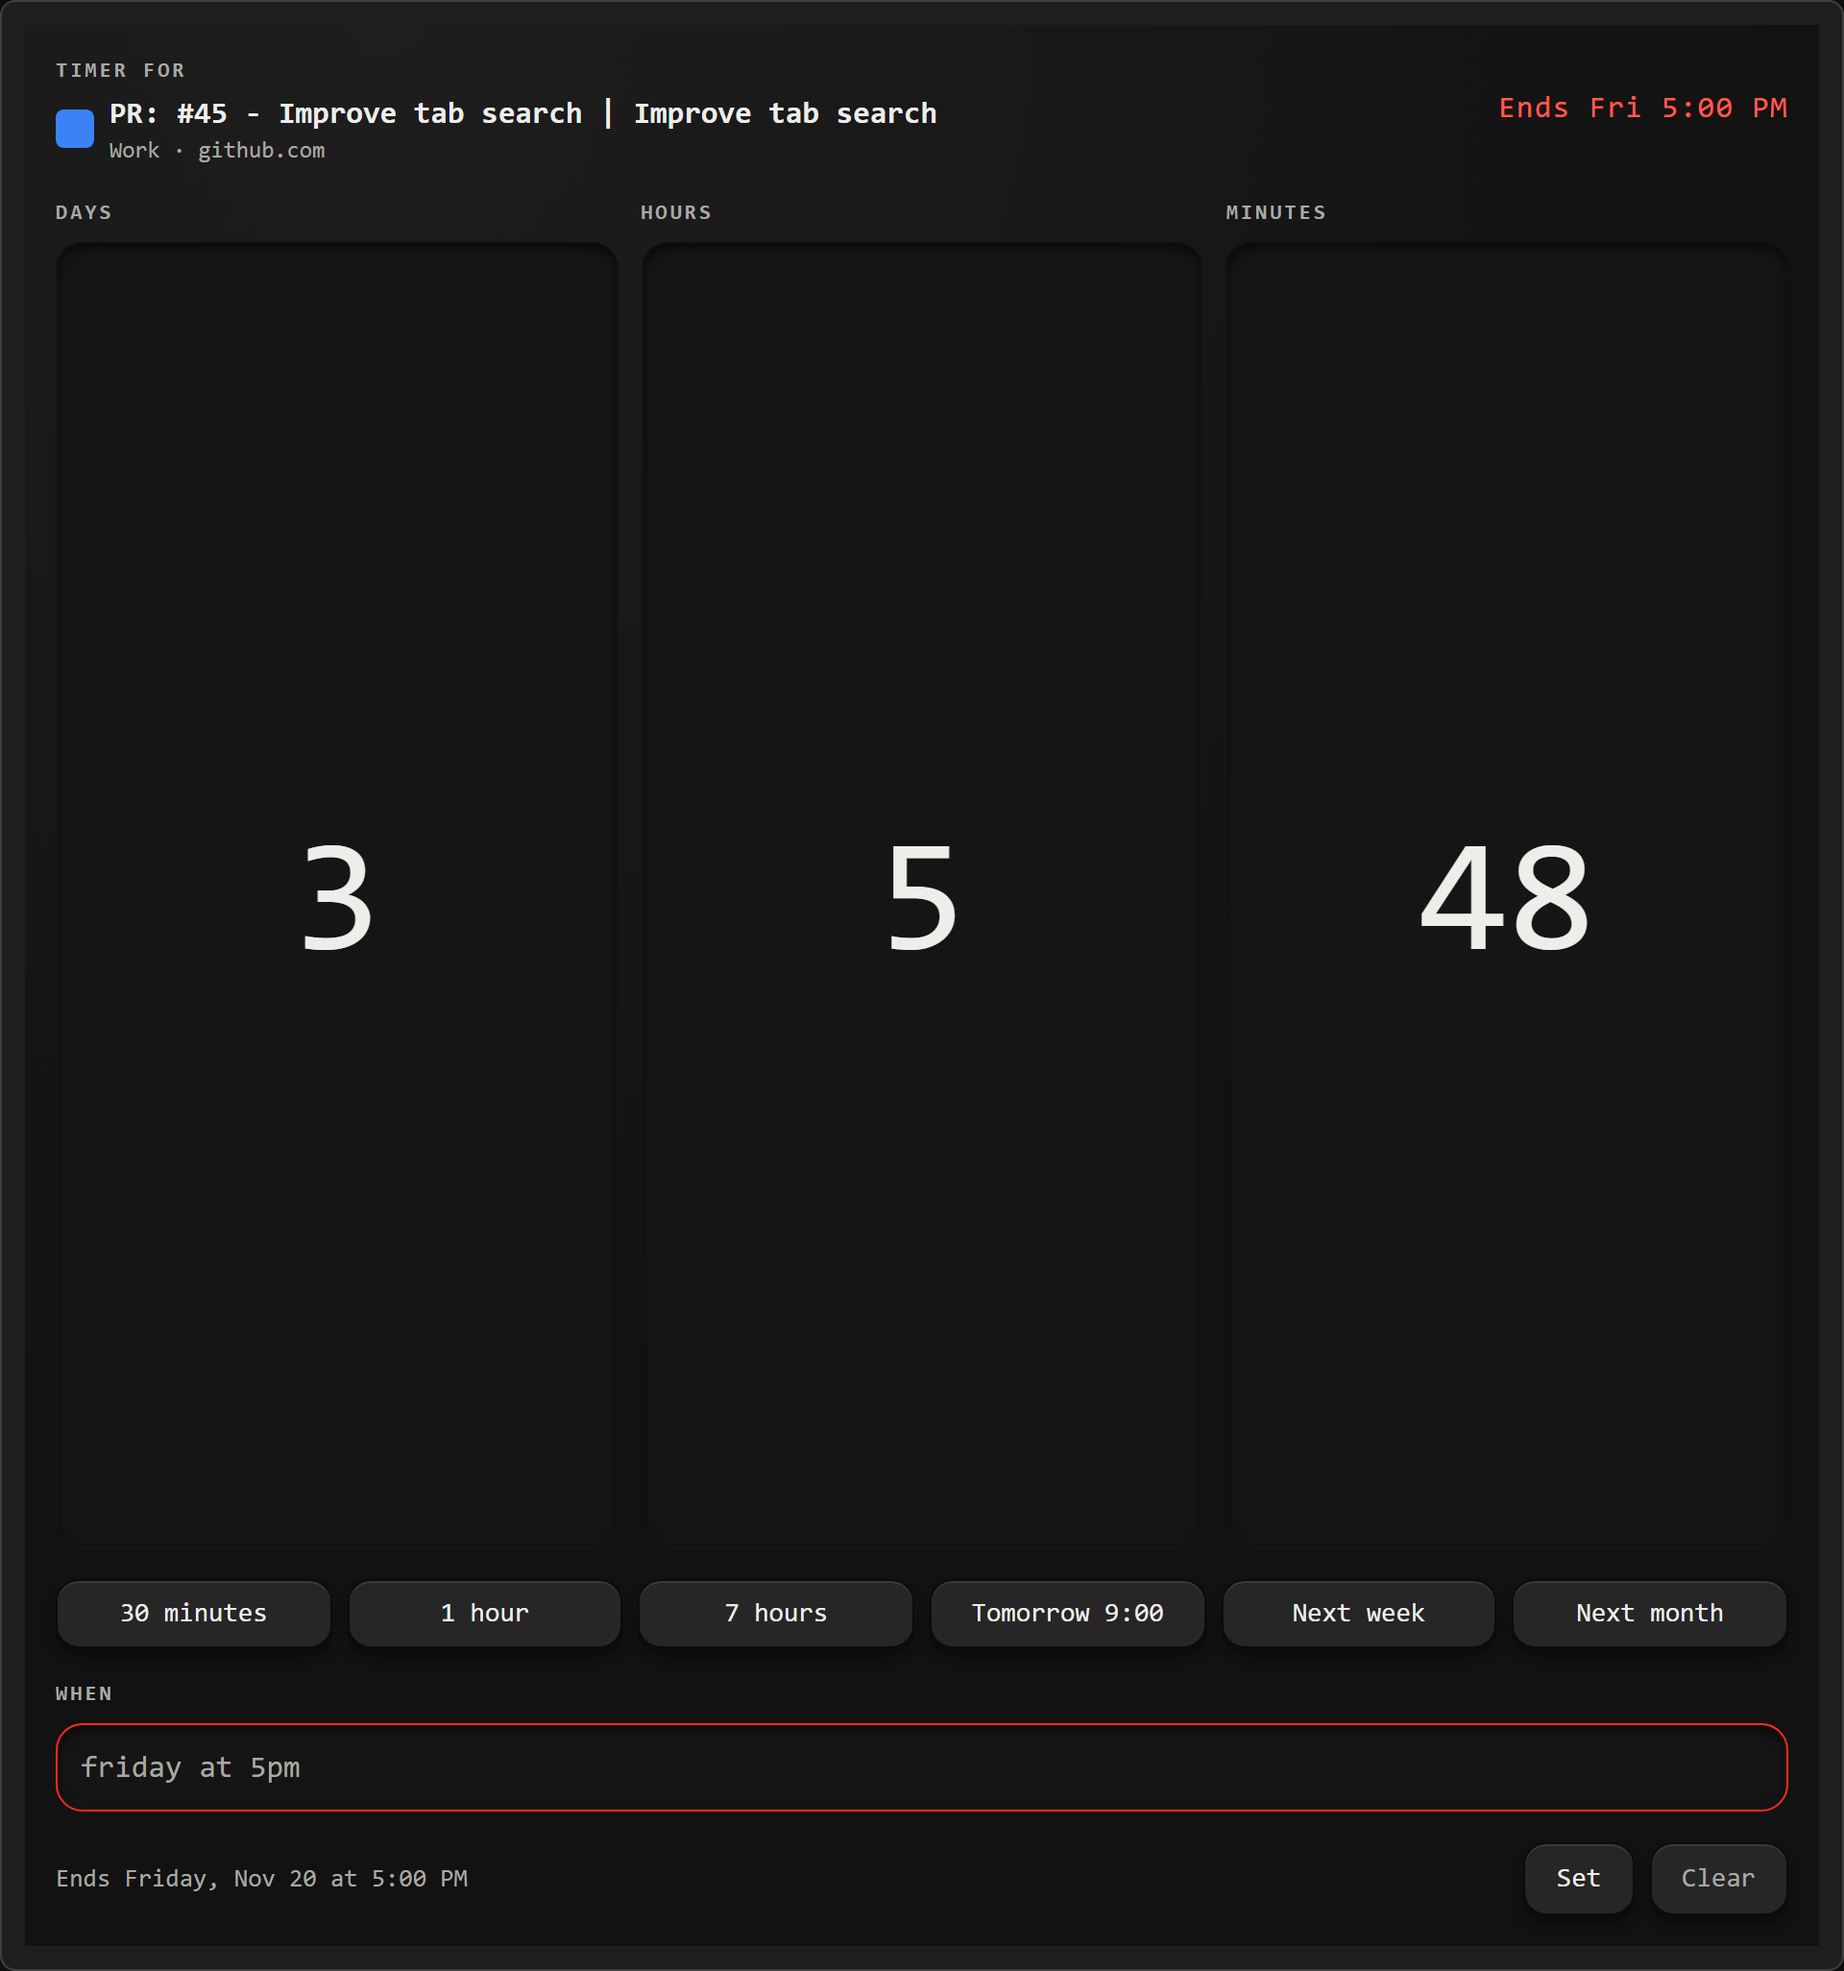
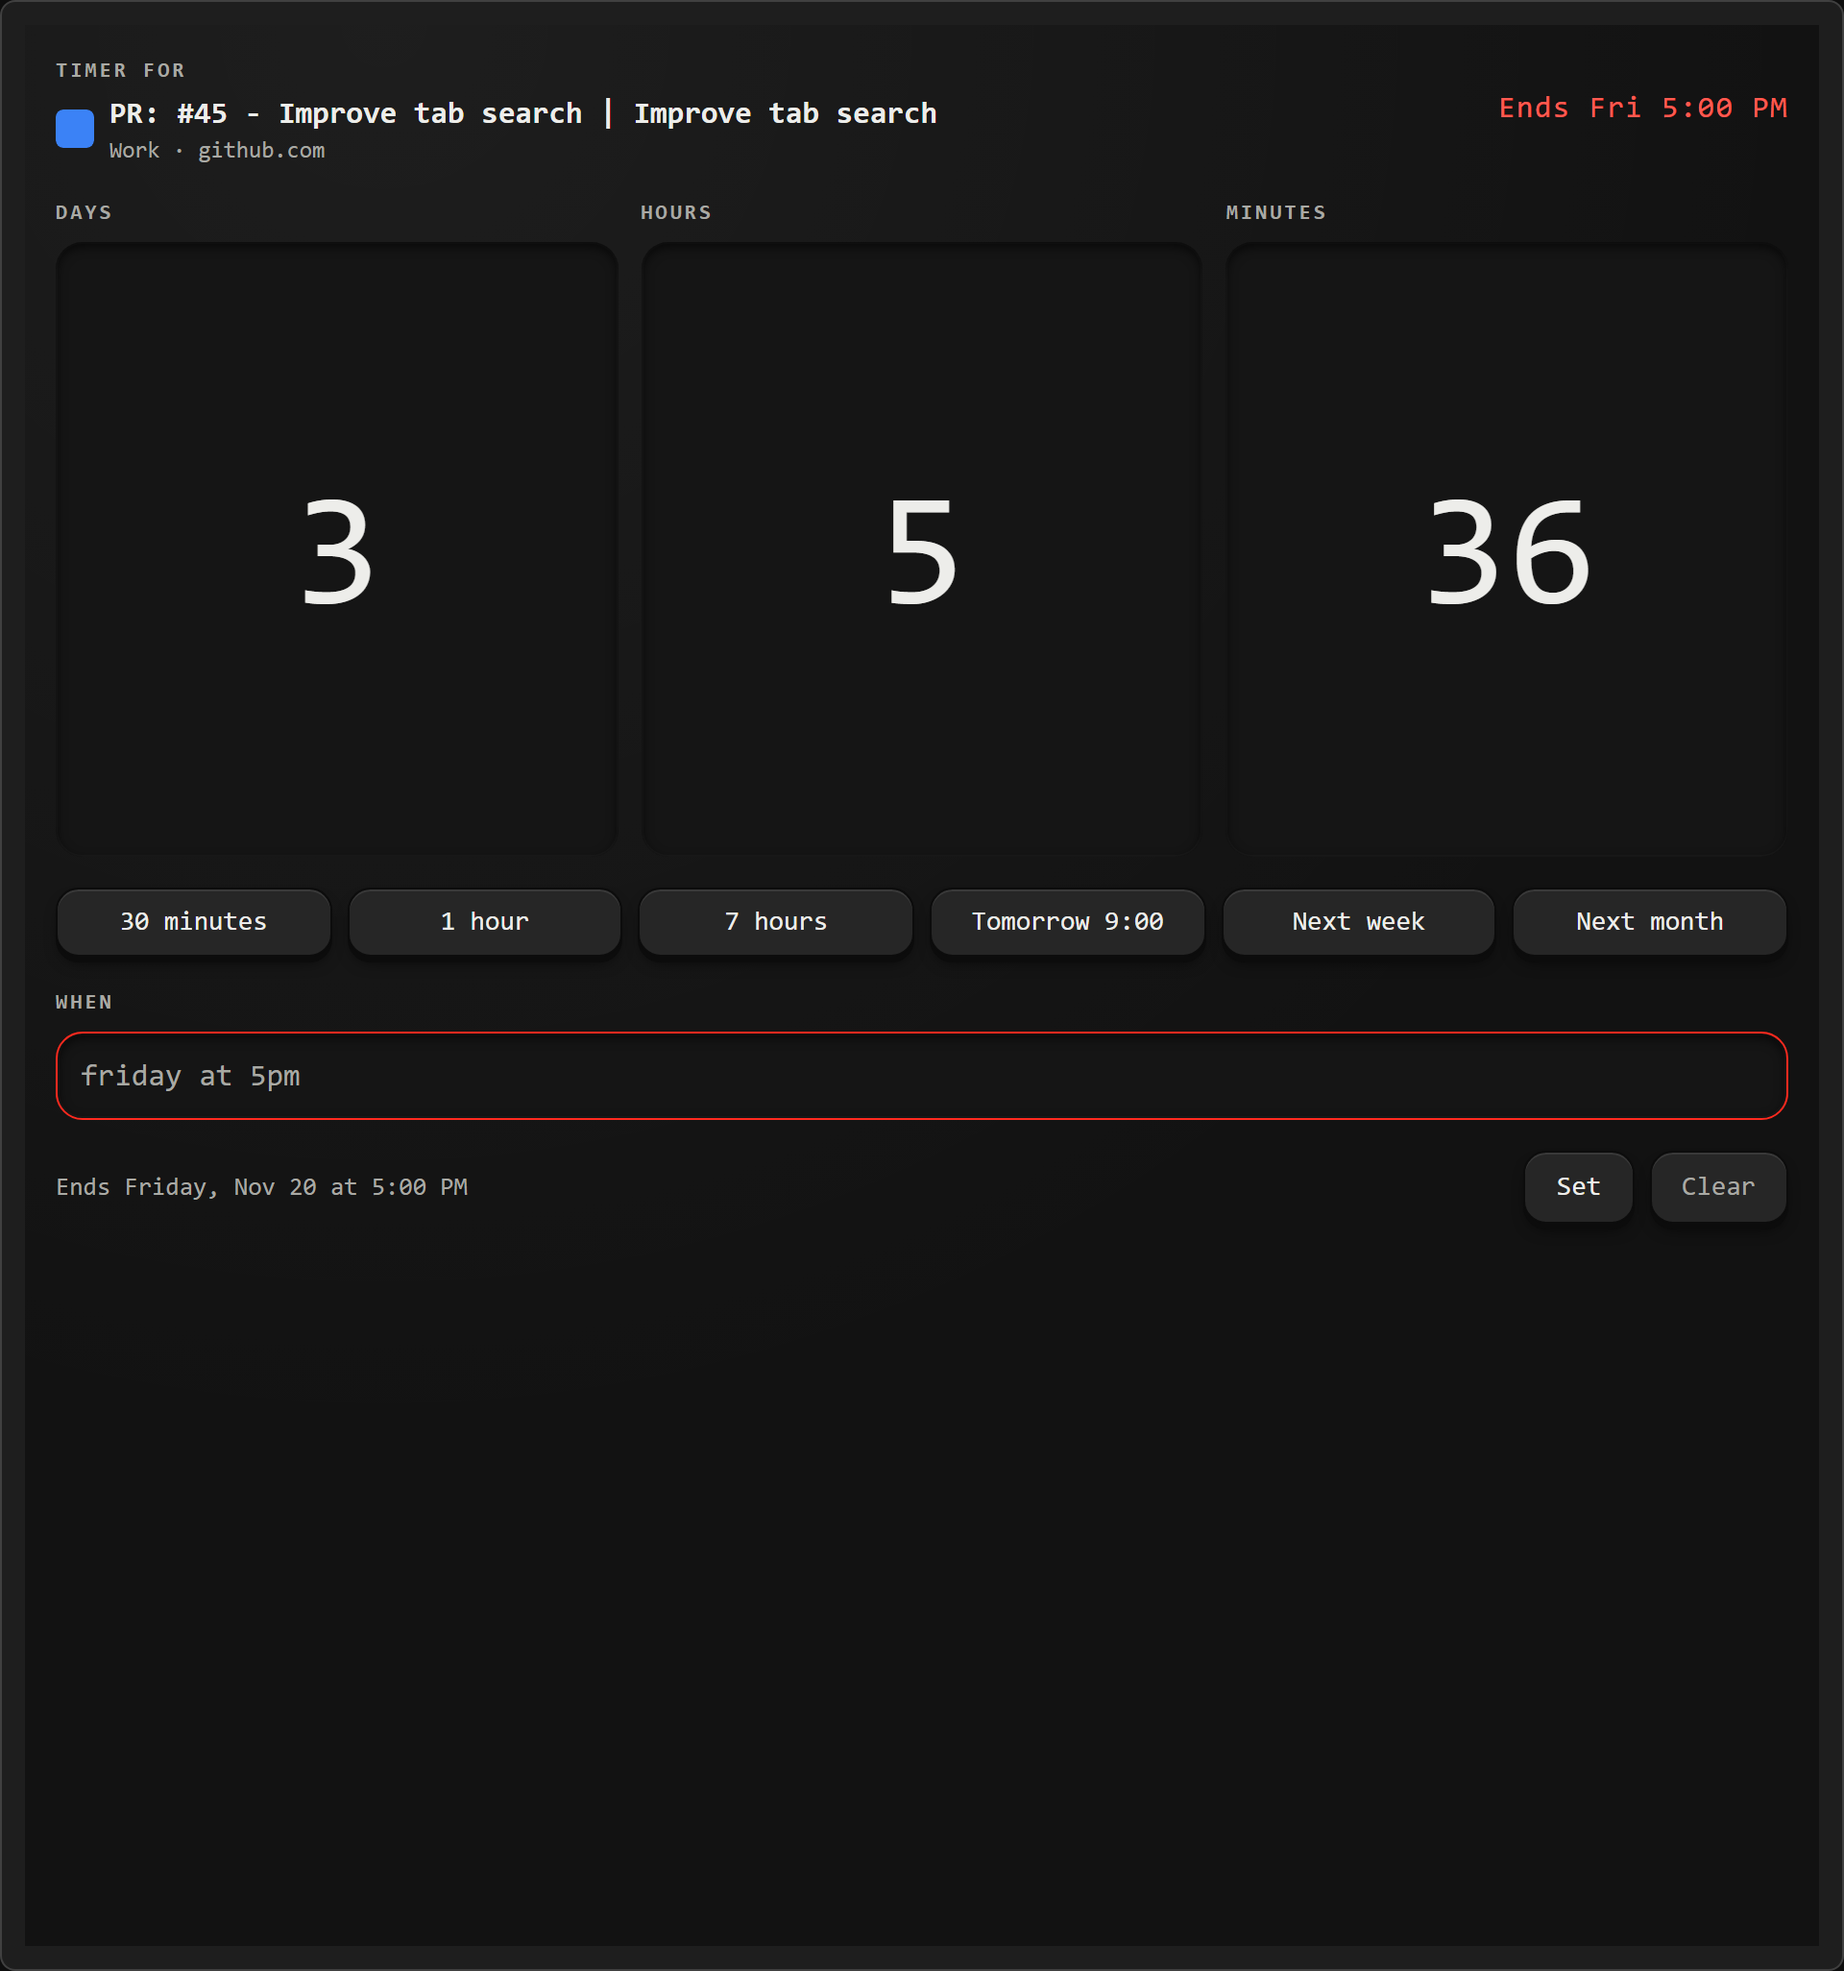
F(timers): cap the timer form at 1440 by 320
zen-tab-search/
├─ features/timers/ui/TimerPopup.tsx
│  The form column is centered and stops at 1440px. The
│  layout switch is gone.
│
├─ features/timers/ui/TimerForm.tsx
│  Each duration well is 320px tall.
│
└─ docs/screenshots/
   Timer captures show the capped form.

diff --git a/features/timers/ui/TimerPopup.tsx b/features/timers/ui/TimerPopup.tsx
@@ -1,5 +1,5 @@
 import { useCallback, useEffect, useState } from "preact/hooks";
-import { DEBUG, debugError } from "@/shared/debug";
+import { debugError } from "@/shared/debug";
 import {
   DEFAULT_DISPLAY_SETTINGS,
   readDisplaySettings,
@@ -17,29 +17,6 @@ import { TabSummary } from "@/shared/ui/TabSummary";
 import { useResolvedTheme } from "@/shared/ui/theme";
 import { cn } from "@/shared/ui/cn";
 
-const TIMER_LAYOUTS = [
-  { id: "full", label: "Full width", maxWidth: undefined, capWells: false },
-  { id: "1440", label: "1440", maxWidth: 1440, capWells: false },
-  { id: "1600", label: "1600", maxWidth: 1600, capWells: false },
-  { id: "1440-h", label: "1440 + 320 tall", maxWidth: 1440, capWells: true },
-] as const;
-
-type TimerLayoutId = (typeof TIMER_LAYOUTS)[number]["id"];
-
-const TIMER_LAYOUT_KEY = "zen-timer-layout-debug";
-
-function readTimerLayout(): TimerLayoutId {
-  try {
-    const stored = sessionStorage.getItem(TIMER_LAYOUT_KEY);
-    if (TIMER_LAYOUTS.some((layout) => layout.id === stored)) {
-      return stored as TimerLayoutId;
-    }
-  } catch {
-    // sessionStorage can be blocked; the button still cycles for this view.
-  }
-  return "full";
-}
-
 export interface TimerPopupProps {
   tabId: number;
   onClose: () => void;
@@ -53,20 +30,7 @@ export function TimerPopup({ tabId, onClose, embedded = false }: TimerPopupProps
   const [now, setNow] = useState(Date.now());
   const [error, setError] = useState<string>();
   const [previewEnd, setPreviewEnd] = useState<number>();
-  const [layoutId, setLayoutId] = useState<TimerLayoutId>(readTimerLayout);
-  const layout = TIMER_LAYOUTS.find((item) => item.id === layoutId) ?? TIMER_LAYOUTS[0];
   const onPreview = useCallback((endAt: number) => setPreviewEnd(endAt), []);
-
-  const cycleLayout = () => {
-    const index = TIMER_LAYOUTS.findIndex((item) => item.id === layoutId);
-    const next = TIMER_LAYOUTS[(index + 1) % TIMER_LAYOUTS.length] ?? TIMER_LAYOUTS[0];
-    setLayoutId(next.id);
-    try {
-      sessionStorage.setItem(TIMER_LAYOUT_KEY, next.id);
-    } catch {
-      // Keep the choice for this view when storage is blocked.
-    }
-  };
   const [displaySettings, setDisplaySettings] = useState<DisplaySettings>(DEFAULT_DISPLAY_SETTINGS);
   const theme = useResolvedTheme(displaySettings.theme);
 
@@ -173,22 +137,7 @@ export function TimerPopup({ tabId, onClose, embedded = false }: TimerPopupProps
             }
       }
     >
-      {DEBUG && (
-        <div class="flex justify-end">
-          <button
-            type="button"
-            class="zs-key px-[var(--zen-space-3)] py-[var(--zen-space-1)] font-[inherit] text-[length:var(--zen-text-sm)]"
-            data-testid="zen-timer-layout-debug"
-            onClick={cycleLayout}
-          >
-            Layout: {layout.label}
-          </button>
-        </div>
-      )}
-      <div
-        class="mx-auto flex min-h-0 w-full flex-1 flex-col gap-[var(--zen-space-4)] self-center"
-        style={layout.maxWidth === undefined ? undefined : { maxWidth: layout.maxWidth }}
-      >
+      <div class="mx-auto flex w-full max-w-[1440px] flex-col gap-[var(--zen-space-4)] self-center">
         <div class="flex items-start justify-between gap-[var(--zen-space-4)]">
           <TabSummary
             plain
@@ -214,7 +163,6 @@ export function TimerPopup({ tabId, onClose, embedded = false }: TimerPopupProps
           now={now}
           disabled={!tab}
           error={error}
-          capWells={layout.capWells}
           onPreview={onPreview}
           onSet={(endAt) => {
             void sendExtensionMessage({ type: "setTimer", tabId, endAt })

diff --git a/features/timers/ui/TimerForm.tsx b/features/timers/ui/TimerForm.tsx
@@ -30,8 +30,6 @@ export interface TimerFormProps {
   now?: number;
   /** Fires with the end time the wells and footer are showing. */
   onPreview?: (endAt: number) => void;
-  /** Hold each well at 320px instead of letting it fill the panel. */
-  capWells?: boolean;
   onSet: (endAt: number) => void;
   onClear?: () => void;
 }
@@ -42,7 +40,6 @@ export function TimerForm({
   error,
   now = Date.now(),
   onPreview,
-  capWells = false,
   onSet,
   onClear,
 }: TimerFormProps) {
@@ -110,23 +107,11 @@ export function TimerForm({
         }
       }}
     >
-      <div
-        class={cn(
-          "grid min-h-0 grid-cols-3 gap-[var(--zen-space-3)]",
-          capWells ? "flex-none" : "flex-1",
-        )}
-      >
+      <div class="grid flex-none grid-cols-3 gap-[var(--zen-space-3)]">
         {DURATION_FIELDS.map(({ part, label }) => (
-          <label key={part} class="flex min-h-0 flex-col gap-[var(--zen-space-2)]">
+          <label key={part} class="flex flex-col gap-[var(--zen-space-2)]">
             <span class="zs-label">{label}</span>
-            <span
-              class={cn(
-                "zs-well [container-type:size] flex items-center rounded-[var(--zs-r-lcd)] px-[var(--zen-space-2)]",
-                capWells
-                  ? "h-[320px] flex-none"
-                  : "min-h-[calc(var(--zen-font-size)*4.5*var(--zen-scale))] flex-1",
-              )}
-            >
+            <span class="zs-well [container-type:size] flex h-[320px] flex-none items-center rounded-[var(--zs-r-lcd)] px-[var(--zen-space-2)]">
               <input
                 class="h-full w-full bg-transparent text-center font-[inherit] text-[length:min(62cqh,calc(var(--zen-font-size)*6))] leading-none text-inherit outline-none"
                 inputMode="numeric"
